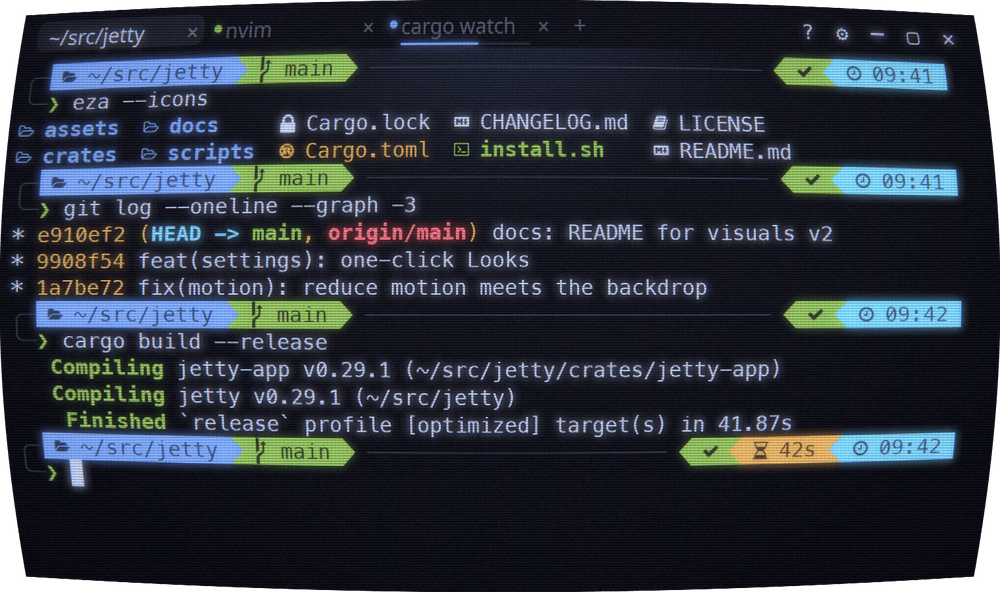
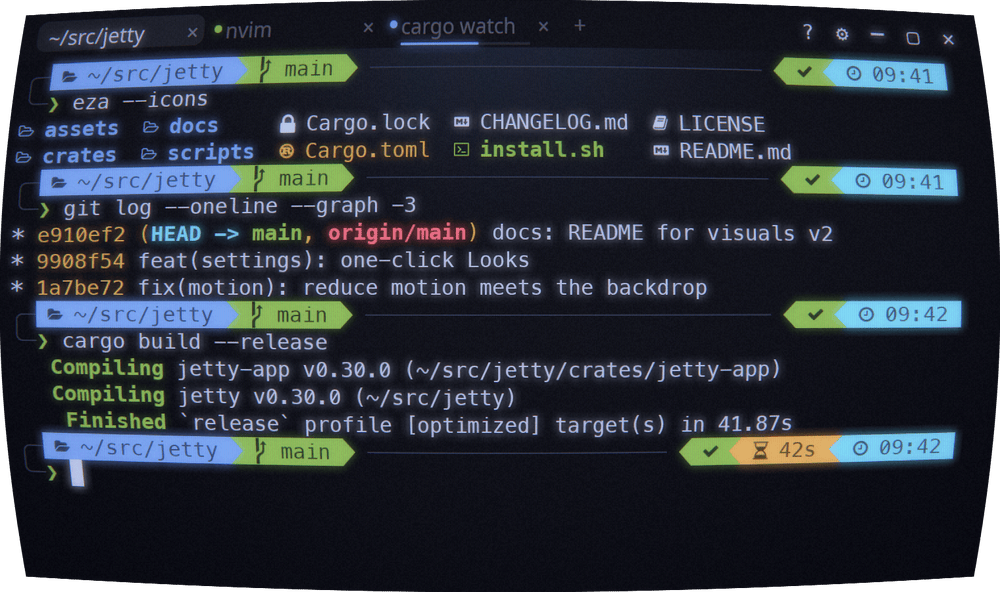
release: v0.30.0 — Wayland that summons, a terminal that stays quick, ~170 fixes
The rest of the whole-codebase scan, in 16 groups: Wayland hide/summon,
clipboard and app id; active-tab drain priority; incremental search; text,
images, overlays, mouse, keyboard, Settings, config, shell integration,
untrusted-output safety, GPU, platform/CLI and a hardened release pipeline.
README screenshots re-shot.

Claude-Session: https://claude.ai/code/session_018rMtUwjGXA9PqrS7RQ15Qg

diff --git a/CHANGELOG.md b/CHANGELOG.md
@@ -7,6 +7,229 @@ and this project adheres to [Semantic Versioning](https://semver.org/spec/v2.0.0
 
 ---
 
+## [0.30.0] — 2026-10-10
+
+**The rest of the whole-codebase scan: Wayland that summons, a terminal that stays
+quick while another tab floods, and about 170 smaller fixes across every part of JeTTY.**
+
+Highlights:
+- **Wayland works**: F9 / `jetty --toggle` bring JeTTY back after a hide, tiling compositors hide it, paste reads native Wayland apps, and docks show its icon.
+- **Typing stays instant while another tab floods**: keypress-to-frame ~47 ms → ~3 ms.
+- **Search keeps up with streaming output** (a refresh at 100k lines: ~220 ms → 0.2 ms), and copy-mode/hint mode hold still while output arrives.
+- **Text**: bold and italic reach NFD and fallback glyphs, flags draw as emoji, every glyph stays on its cell, and characters no font has no longer freeze the window.
+- **Images** start at the cursor, keep their rows through resizes, and survive `mpv --vo=kitty`.
+- **Overlays share one order**, palette rows show their live shortcut, and Settings follows clicks with the keyboard.
+- **Safer output**: bidi and control characters can't spoof titles, link previews lead with the real host, hidden text is never run.
+
+### Changed and fixed
+
+#### Wayland
+- Wayland: hiding JeTTY closes its window (every tab and shell keeps running), and F9 / `jetty --toggle` / `--show` open it again, focused. A summon no longer just flashes the taskbar entry after the first hide, and tiling compositors (sway, river, Hyprland, niri) hide it too. The launcher's activation token travels with `jetty --toggle`.
+- Wayland: JeTTY launched from an app menu or a compositor shortcut takes the focus where the compositor wants an activation token.
+- Windows carry the app id of `jetty.desktop`: Wayland docks show JeTTY's icon and group it with its launcher, and the AppImage's X11 WM_CLASS is `jetty` instead of its file name.
+- `summon_hotkey = "none"` turns the built-in grab off, so you can bind `jetty --toggle` yourself and keep F9 for your apps. On Wayland JeTTY no longer grabs the key through XWayland.
+- The welcome splash says how to summon JeTTY: the hotkey, or on Wayland the binding to make. install.sh says so on Wayland too.
+- Wayland: a terminal minimized with ─ on a compositor that ignores minimizing paints again on the next key or click.
+- Wayland: pasting (Ctrl+Shift+V, the menu, middle click, OSC 52 reads) now gets what native Wayland apps copied — JeTTY uses the compositor's clipboard and primary selection directly, not XWayland's. A paste from a frozen app gives up after 4 s instead of freezing JeTTY.
+- Copy and paste start working once the clipboard becomes reachable, instead of staying off until a restart.
+- Wayland, macOS: a key held while the window loses focus (Alt+Tab, Settings, hide) now gets its kitty release; a key held across a tab switch is released in every tab that saw it.
+- Wayland: no crash when the last shell exits during a scrollbar drag.
+- Clicked links open with a fresh activation token, so the browser comes to the front, and without JeTTY's launch or AppImage variables.
+- Wayland: the Settings image hint no longer offers drag-and-drop, which winit does not deliver there yet.
+
+#### Speed
+- Typing in a tab no longer waits behind output flooding another tab: keypress-to-frame drops from about 47 ms to about 3 ms while a background tab streams.
+- A flood in a background tab no longer delays the active tab's echo or switches off its cursor trail.
+- The unfocused (hollow) cursor now appears when focus moves to Settings, a detached window or another app; a detached window's cursor follows its focus both ways.
+- `JETTY_PERF_LOG` no longer counts a key that produced no output (a password, Esc in vim) against the program's next reply.
+
+#### Summon and window modes
+- A window the window manager minimizes (taskbar, shortcut, show desktop) stops rendering its shell's output (X11); a minimized Settings window no longer redraws on a config reload.
+- Minimizing JeTTY with focus auto-hide on no longer leaves a dead taskbar entry (X11).
+- F9 is faster: JeTTY's X11 requests reuse one connection instead of opening one per summon.
+- Switching from Dropdown to Center gives the window back its own size and spot.
+- The Dropdown strip docks below a top panel and the macOS menu bar, never under a bottom panel or the Dock.
+- A summon with no saved spot stays centred, a restored spot keeps the whole window on its monitor, and an F11 escape after a Fullscreen-mode start no longer lands in the corner.
+- A detached window the window manager didn't focus no longer counts as focused, and the focus auto-hide keeps working after a detach.
+- F9 pressed right after a summon hides again instead of raising.
+- macOS: `jetty --show` brings a minimized terminal back.
+- With reduce_motion the Dropdown strip never slides.
+- The main window's taskbar title follows its shell while minimized or covered.
+- Reattaching a tab brings the main window forward; a drop no longer reattaches into a minimized window; a failed detach says so.
+
+#### Text
+- Bold and italic now reach text with combining marks (NFD names from macOS) and glyphs from fallback fonts — a bold "Café" is bold all the way, bold CJK is bold.
+- Characters no installed font has (octant art, newer emoji, a `cat` of a binary) no longer freeze JeTTY: a screen of them draws in milliseconds instead of seconds.
+- Every glyph stays on its cell: zero-width or odd-width glyphs (Noto Sans Mono's fraction slash) no longer shift the rest of the row, and a paragraph separator (U+2029) no longer cuts it.
+- CJK and symbols from fallback fonts sit on the text's baseline, CJK centred in its two cells.
+- Flags (🇹🇷) are drawn as one color emoji instead of two overlapping letters.
+- `minimum_contrast` now adjusts powerline icons (branch, lock) with their text.
+- After a terminal-font change, the chrome of every window — Settings, detached windows — keeps one typeface.
+- The UI-font list no longer offers symbol fonts (Dingbats) that turned the Settings panel into symbols.
+- The IME composition is underlined like other text, and its candidate window follows a composition shifted at the right edge.
+- Dragging a window's border no longer re-shapes every row on each frame.
+
+#### Search, hints and copy mode
+- Search keeps up with streaming output by reading only the new lines (a refresh at 100k lines: ~220 ms → 0.2 ms), and the match you jumped to stays current while output scrolls or the window is resized.
+- Search no longer hides older matches in scrollbacks with CJK text.
+- An open search no longer re-scans back to back, or at all in a hidden or covered window.
+- A middle-click on the open search bar pastes into the query.
+- Copy-mode and hint mode hold the view still while output streams in: the cursor, the selection and the chips stay on their text, and `y` copies what you selected.
+- Hint chips follow their text through a resize; a chip whose text changed disappears instead of copying the old token.
+- Hint mode labels the newest tokens when more than 100 are on screen, and no longer treats `//TODO` as a path.
+- In copy-mode, right-click → Copy / Run in New Tab acts on copy-mode's selection.
+- Copy-mode and hint mode end cleanly when another window switches the main window's tab, and are never drawn over a TUI that just started.
+- Hint mode and copy-mode work with a CJK input method in native mode.
+- A double-clicked bracket no longer slows every frame (up to 100 ms with a big scrollback), and a right-click no longer builds the whole selection just to check it exists.
+
+#### Inline images
+- Kitty images ended by BEL are drawn, and the output after a BEL- or 8-bit-ST-ended image no longer vanishes.
+- Sixel images start at the cursor (after `printf 'Plot: '`, in `timg -ps --grid`) and leave the cursor under the image, as in xterm.
+- Kitty images leave the cursor right of their last row, as in kitty: no blank row under `icat`/`timg` output, and `timg --grid` no longer staggers.
+- Kitty `c=`/`r=` scale an image keeping its shape (letterboxed when both are given); images wider than the grid are cut at its edge, not squashed.
+- Images draw pixel-crisp and no longer spill into the padding or scrollbar.
+- Images follow the cell size when a window moves to a monitor of another scale, and survive window resizes, fullscreen, font zoom and moving a tab between windows.
+- Quitting `mpv --vo=kitty` no longer erases the shell's images; `kitten icat --clear` keeps the scrollback's; `d=i,…,p=` deletes just that placement.
+- Re-sending a Kitty image id replaces its old placements; `I=` numbers get ids of their own and replies name `i=`, `I=` and `p=`.
+- A TUI's re-placed icon no longer vanishes when many other images are stored.
+- Kitty replies keep their place inside a synchronized update.
+- `CSI 14 t` reports the exact text-area size, so lsix montages fit the grid.
+- Full-window HiDPI sixels (up to 32 MB) are no longer dropped; sixels reserve the rows their declared size asks for.
+- The first tab knows its cell size at startup, so startup logos (fastfetch, neofetch) reserve the right rows.
+- A flood of tiny Kitty commands can no longer stall the UI by scrolling.
+- Faster image streams, and video-as-images no longer piles up GPU memory.
+
+#### Mouse, tab bar and detached windows
+- Touchpads and hi-res wheels send one wheel report per notch to vim/tmux/htop, not three.
+- The wheel and hover over the status strip no longer reach the program (tmux switched windows).
+- macOS: Shift+wheel scrolls JeTTY's scrollback over a mouse-tracking program with a classic wheel.
+- A wheel that can't move the view no longer repaints.
+- A selection drag follows the view when the wheel, a page key or a prompt jump scrolls it, and repaints when its selection changes, and only then.
+- A drag auto-scrolls even when the grid is flush with the screen edge.
+- The double/triple-click distance is 5 logical px at every DPI (grid, tab strip, detached bar).
+- tmux/vim no longer stay mid-drag after a focus loss, a hide or a tab switch.
+- Nothing the pointer hovered stays lit after it leaves a window, and Ctrl no longer underlines a link the pointer has left.
+- A new tab's "Tab N" never repeats one already open.
+- A detached window's notice pills show in that window.
+- Clicking a tab of an overflowed strip no longer moves the strip or the tab; another tab closing no longer cancels a tab drag or closes the tab menu.
+- X11 mixed DPI: a torn-off tab lands where it was dropped.
+- Detached windows: Select All and Clear menu rows, a "Select all" palette row, "— JeTTY" in the taskbar title, a "?" hover, their own monitor's refresh pacing, and a palette "Go to window: X".
+
+#### Keyboard
+- A held F11, Ctrl+Shift+D, Ctrl+, , the Menu key or an overlay chord acts once; scrolling, tab/prompt/theme stepping, font size and opacity still repeat. Copy and paste run once per press.
+- A Shift chord on a symbol or `0` (`Ctrl+Shift+/`, `Cmd+Shift+]`, `Ctrl+Shift+0`) fires where Shift changes the character.
+- macOS: a palette, search, hint or copy-mode toggle bound to an Option chord closes the overlay again.
+- Renaming a tab: Ctrl+Shift+V / Cmd+V pastes, and other Ctrl/Cmd chords type nothing.
+- F13–F24, an unbound Menu key and NumLock-off keypad 5 reach the program (xterm's sequences); Shift/Ctrl/Alt+Menu now sends CSI 29;m ~.
+- Ctrl+` and Ctrl+2…8 send xterm's control bytes.
+- The help and the reload notice name the summon key that actually works (F9 after an invalid value, the old key until a restart, a compositor shortcut on Wayland).
+- X11: a summon chord grabs the key that types it, and digit and symbol keys by position — Ctrl+Backquote no longer takes the comma key on Turkish-Q.
+- A Shift-only `[keys]` chord on a typing key (`Shift+T`) is rejected instead of swallowing capitals.
+- keyprobe flags typed text JeTTY sends differently and prints the session type.
+
+#### Palette, help, menus and overlays
+- Overlays follow one order for keys, clicks and drawing: the search bar no longer opens under the shortcuts help, and help, search, hint mode and copy-mode take the window from each other instead of a chord silently doing nothing.
+- The quit / close-tab confirmation is drawn above a command palette left open and gets the keys and clicks.
+- The welcome splash is gone at the first key, as documented; it no longer blocks hint/copy mode or shows over a new tab.
+- A detached window shows the IME composition under its help, like the main window, and no longer underlines Ctrl+hovered links under its help, palette or hint mode.
+- A dropped file no longer types into the shell behind a confirmation or the rename box; it goes into an open palette or search query, and hint/copy mode ignore it.
+- In hint mode, Ctrl/Cmd chords no longer pick a label and overwrite the clipboard.
+- Palette theme rows follow a theme by name, so a themes/ change while the palette is open can't retarget them; a theme only previewed in the palette is no longer what Esc in the Settings gallery restores, nor the base of next/previous/random theme; closing a detached window mid-preview restores the chosen theme everywhere.
+- The palette query is capped at 256 characters, like search's.
+- The shortcuts help follows remapped tab-jump keys and says where a drag copies.
+- Palette rows show their live shortcut, and "Help: keyboard shortcuts" opens the list from the palette.
+- The palette placeholder no longer runs into the result counter in narrow windows.
+
+#### Settings
+- Settings: browsing the terminal-font list resizes your shells once when you stop, not once per step — no more scattered p10k prompts.
+- Settings: the terminal-font list no longer offers fonts without letters (Noto Color Emoji calls itself monospace).
+- Settings: a covered or minimized Settings window no longer repaints (on macOS it woke JeTTY once a second); opening Settings no longer renders ~36 extra frames on Linux.
+- Settings: Esc after choosing a look no longer reverts just its theme; any theme choice outside the gallery ends the gallery's browsing.
+- Settings: an arrow key on a slider whose value is past its range (e.g. minimum_contrast 10) no longer drops the value to the slider's end.
+- Settings: changing the UI font or its size keeps the size you gave the Settings window.
+- Settings: an image dropped from backgrounds/ stays in the Image picker instead of jumping to None.
+- Settings: a released scrollbar thumb no longer stays highlighted.
+- Settings: text on a focused row, on buttons and on the selected list row is readable on every theme.
+- Settings: the keyboard follows a click — after clicking a control, the arrows adjust it.
+- Settings: dragging a slider costs about half the CPU.
+- docs: `dropdown_width_pct` has a Settings control.
+
+#### Configuration and hot reload
+- Hot reload works with a symlinked config folder (stow, home-manager) or a `JETTY_CONFIG_DIR` under `/tmp` on macOS.
+- `JETTY_CONFIG_DIR` may be relative or start with `~`; hot reload works and `jetty --toggle` from a JeTTY shell reaches the same instance.
+- On Linux the hot-reload watcher no longer wakes for every file opened in `~/.config`.
+- Hot reload says when it can't watch (inotify limits), in the window and in `jetty --check-config`.
+- The first settings change without a config file saves only that change, so later improved defaults reach you.
+- Deleting config.toml while JeTTY runs is reported and no longer undone by the next settings change.
+- An emptied or briefly missing config.toml is checked again before it applies.
+- Settings saves no longer reload every theme file or repaint every window.
+- `crt_phosphor` accepts any letter case.
+- A user theme replaces a built-in in any spelling.
+- Emacs lock files in `themes/` are ignored.
+- `jetty --check-config` and stderr never print a raw escape sequence from a file name; a shortened notice keeps its closing advice.
+- `jetty --check-config` also checks the backdrop image and `shell`.
+- macOS: `reduce_motion = "system"` follows Accessibility › Reduce motion.
+
+#### Shell integration and notifications
+- Ctrl+D or `exit` in a just-opened tab closes it even after a failed command; it used to swap in another shell.
+- A JeTTY started from a VS Code / Cursor terminal no longer hands that editor's git askpass, commit editor and sockets to every shell (nor zellij's, Neovim's or xterm's variables).
+- Auto-summon on finish works with desktop notifications off, and Settings no longer greys it out.
+- A command that printed nothing gets an empty notification body, not its prompt line.
+- bash integration no longer re-fires your ERR trap at every prompt.
+- New shell-integration line: it sources a file JeTTY writes, so no process starts per shell (an AppImage no longer mounts itself for every tab), and it works on macOS's bash 3.2. `--help`, the README and the snippets show the same line, and the old line keeps working.
+- fish 4, which marks its prompts itself, no longer gets duplicate marks.
+- Ctrl+C now interrupts a huge paste a program is still reading, and query replies are no longer dropped during a big paste.
+- Settings says Run & Notify and Smart titles need shell integration.
+- A bell in a detached window rings at once.
+- The shell that takes over a failed start gets a clean terminal.
+- Closing a tab gives its shell 2 s to save its history before it is killed.
+- A notification thread that fails to start no longer silences later toasts.
+- Toasts are tied to `jetty.desktop`, and AppImage toasts show JeTTY's icon.
+- Docs: on macOS, Run & Notify bounces the Dock icon.
+
+#### Terminal and untrusted output
+- `echo toggle | nc -U "$XDG_RUNTIME_DIR/jetty.sock"` toggles JeTTY; out of file descriptors the IPC thread no longer spins a core; on the BSDs a socket left by a crash is cleaned up again.
+- Program titles, process and directory names, notification text and config/theme notices can't reorder or break the chrome: control and invisible bidi/format characters (RLO …) are dropped, and shown as `�` in notices.
+- The Ctrl+hover link pill leads with the real host (`https://…@evil.example/`), shortens long paths in the middle and shows hidden characters as `%E2%80%AE`.
+- Run in New Tab stages, instead of running, a selection that covers text you couldn't see (SGR 8 concealed, or drawn in its own background colour). A link's hidden text no longer hides its target, and a plain URL ends where hidden text starts.
+- A program reading the clipboard with OSC 52 always gets an answer, so nvim's OSC 52 paste no longer stalls for 10 s.
+- Mouse tracking modes replace each other as in xterm, and DECRQM reports modes 9 and 1015.
+- Select All no longer copies an empty line for every blank row below the prompt.
+- A timed-out synchronized update in a background tab or hidden window delivers its replies, title, bell and clipboard at once; updates spanning several reads keep a full scrollback's marks and images, and an update can't freeze the screen (it ends 1 s after it began).
+- A bell flood in an unfocused window asks for attention once, until the window is focused again.
+- A `file://` link that names another machine is no longer opened as a local file; a pill says where the file is.
+- The IPC socket goes only in a directory of your own; outside `XDG_RUNTIME_DIR` the instance lock lives in the state dir.
+- An alt-screen toggle sent among other modes (`CSI ? 1049 ; 25 h`) keeps prompt marks on their rows.
+- Shell-integration snippets are sourced only from a directory you own.
+
+#### GPU and effects
+- The Phosphor summon rim and scan line glow in the theme's accent instead of a washed-out pastel of it; a colored caret glow likewise.
+- A broken backdrop image replaced by another pick while it decoded no longer blanks the image on screen or blames the new file.
+- The backdrop image stays sharp when the window moves to a bigger monitor.
+- CRT scanlines and the shadow mask keep their size on HiDPI screens.
+- A window whose surface is lost or left unconfigured recovers on its own instead of staying blank until a resize.
+- After a GPU loss that does not recover, retries back off up to 30 s, and detached and Settings windows wait for the main device instead of taking one each.
+- Faster: one GPU submit fewer on typing frames; the first frame's effect pipelines compile during startup; detaching a tab and opening Settings no longer recompile shaders; the CRT keeps only its four most recent variants.
+
+#### Platform, CLI and releases
+- A newer JeTTY launched while an older one runs says how to switch; an updated AppImage moves Launch at login to itself.
+- `jetty` in an `ssh -X` session or a second X session starts that display's own JeTTY instead of toggling the other screen's.
+- A login item switched off in the desktop's startup settings stays off.
+- A summon key that can't be grabbed says what to do (another key, or `jetty --toggle`); macOS no longer points at Accessibility.
+- Closing the last tab asks "Close the last tab and quit JeTTY?".
+- Hint mode, copy-mode and Run in New Tab say why when they can't act.
+- A `[keys]` conflict names the action that holds the chord.
+- A failed start notifies the desktop when launched from it; no display is a clean error (exit 1); a refused second instance exits 1.
+- A home directory that can't take file locks (NFS without lockd) no longer stops JeTTY from starting.
+- `jetty --help` says other arguments, like `-e`, are ignored.
+- Release files carry signed build provenance; the tarball holds only what install.sh installs.
+- Docs: perf numbers, smart-case search, Center remembers its spot, the perf HUD lives in the status strip, global-hotkey.md, roadmap, fonts and GPU.
+
+#### Development
+- `verify-idle.sh` reads %CPU instead of the CPU core number; `check-paint-choke.sh` checks every jetty-app module.
+- The newest stable clippy is satisfied; the theme and watcher tests run on macOS too.
+- Font-dependent text tests hold on CI runners with only DejaVu installed.
+
 ## [0.29.1] — 2026-10-09
 
 **Fixes from a scan of the whole codebase: menus that behave, output that

diff --git a/docs/release-notes/v0.30.0.md b/docs/release-notes/v0.30.0.md
@@ -1,0 +1,57 @@
+# JeTTY v0.30.0
+
+**The rest of the whole-codebase scan: Wayland that summons, a terminal that
+stays quick while another tab floods, and about 170 smaller fixes across every
+part of JeTTY.**
+
+- **Wayland works.** F9 / `jetty --toggle` bring JeTTY back after a hide
+  (hiding now closes the window while every tab keeps running), tiling
+  compositors hide it too, paste reads what native Wayland apps copied, and
+  docks show JeTTY's icon. `summon_hotkey = "none"` turns the built-in grab off
+  so you can bind `jetty --toggle` yourself.
+- **Typing stays instant while another tab floods:** keypress-to-frame drops
+  from about 47 ms to about 3 ms; throughput is unchanged.
+- **Search keeps up with streaming output** (a refresh at 100k lines: ~220 ms →
+  0.2 ms), the match you jumped to stays current, and copy-mode / hint mode hold
+  the view still while output arrives.
+- **Text:** bold and italic reach NFD names and fallback glyphs, flags draw as
+  one emoji, every glyph stays on its cell, and characters no installed font
+  has no longer freeze the window.
+- **Images** start at the cursor, keep their rows through resizes, fullscreen
+  and font zoom, and survive `mpv --vo=kitty`; Kitty images ended by BEL work.
+- **One overlay order:** help, search, hints, copy mode and the palette no
+  longer open under each other; palette rows show their live shortcut, and
+  "Help: keyboard shortcuts" is a palette search away.
+- **Safer output:** control and bidi characters can't spoof titles or
+  notifications, the link preview leads with the real host, hidden text is
+  never run, and a `file://` link to another machine isn't opened locally.
+- **Summon and windows:** a WM-minimized window stops rendering (X11), Dropdown
+  docks below panels and the macOS menu bar, Center gets its size back after
+  Dropdown, and `ssh -X` / a second X session start their own JeTTY.
+- **Shell integration:** a new opt-in line that starts no process per shell
+  (and works on macOS's bash 3.2); Ctrl+C interrupts a huge paste; auto-summon
+  works with notifications off.
+
+The full list is in the [CHANGELOG](https://github.com/bozdemir/JeTTY/blob/main/CHANGELOG.md).
+
+## Install
+
+```bash
+curl -fsSL https://raw.githubusercontent.com/bozdemir/JeTTY/main/install.sh | sh
+```
+
+Or a `.deb` / **AppImage** from the assets below (the installer verifies
+`SHA256SUMS.txt`). Build from source: `cargo build --release`.
+
+Every file carries a signed build provenance:
+`gh attestation verify <file> --repo bozdemir/JeTTY`.
+
+## Artifacts
+
+| File | What |
+|---|---|
+| `jetty-0.30.0-x86_64-linux.tar.gz` | Portable Linux binary + assets |
+| `jetty_0.30.0_amd64.deb` | Debian / Ubuntu package |
+| `JeTTY-0.30.0-x86_64.AppImage` | Universal Linux AppImage |
+| `JeTTY-0.30.0-x86_64.AppImage.zsync` | Delta-update data for the AppImage |
+| `SHA256SUMS.txt` | Checksums |
